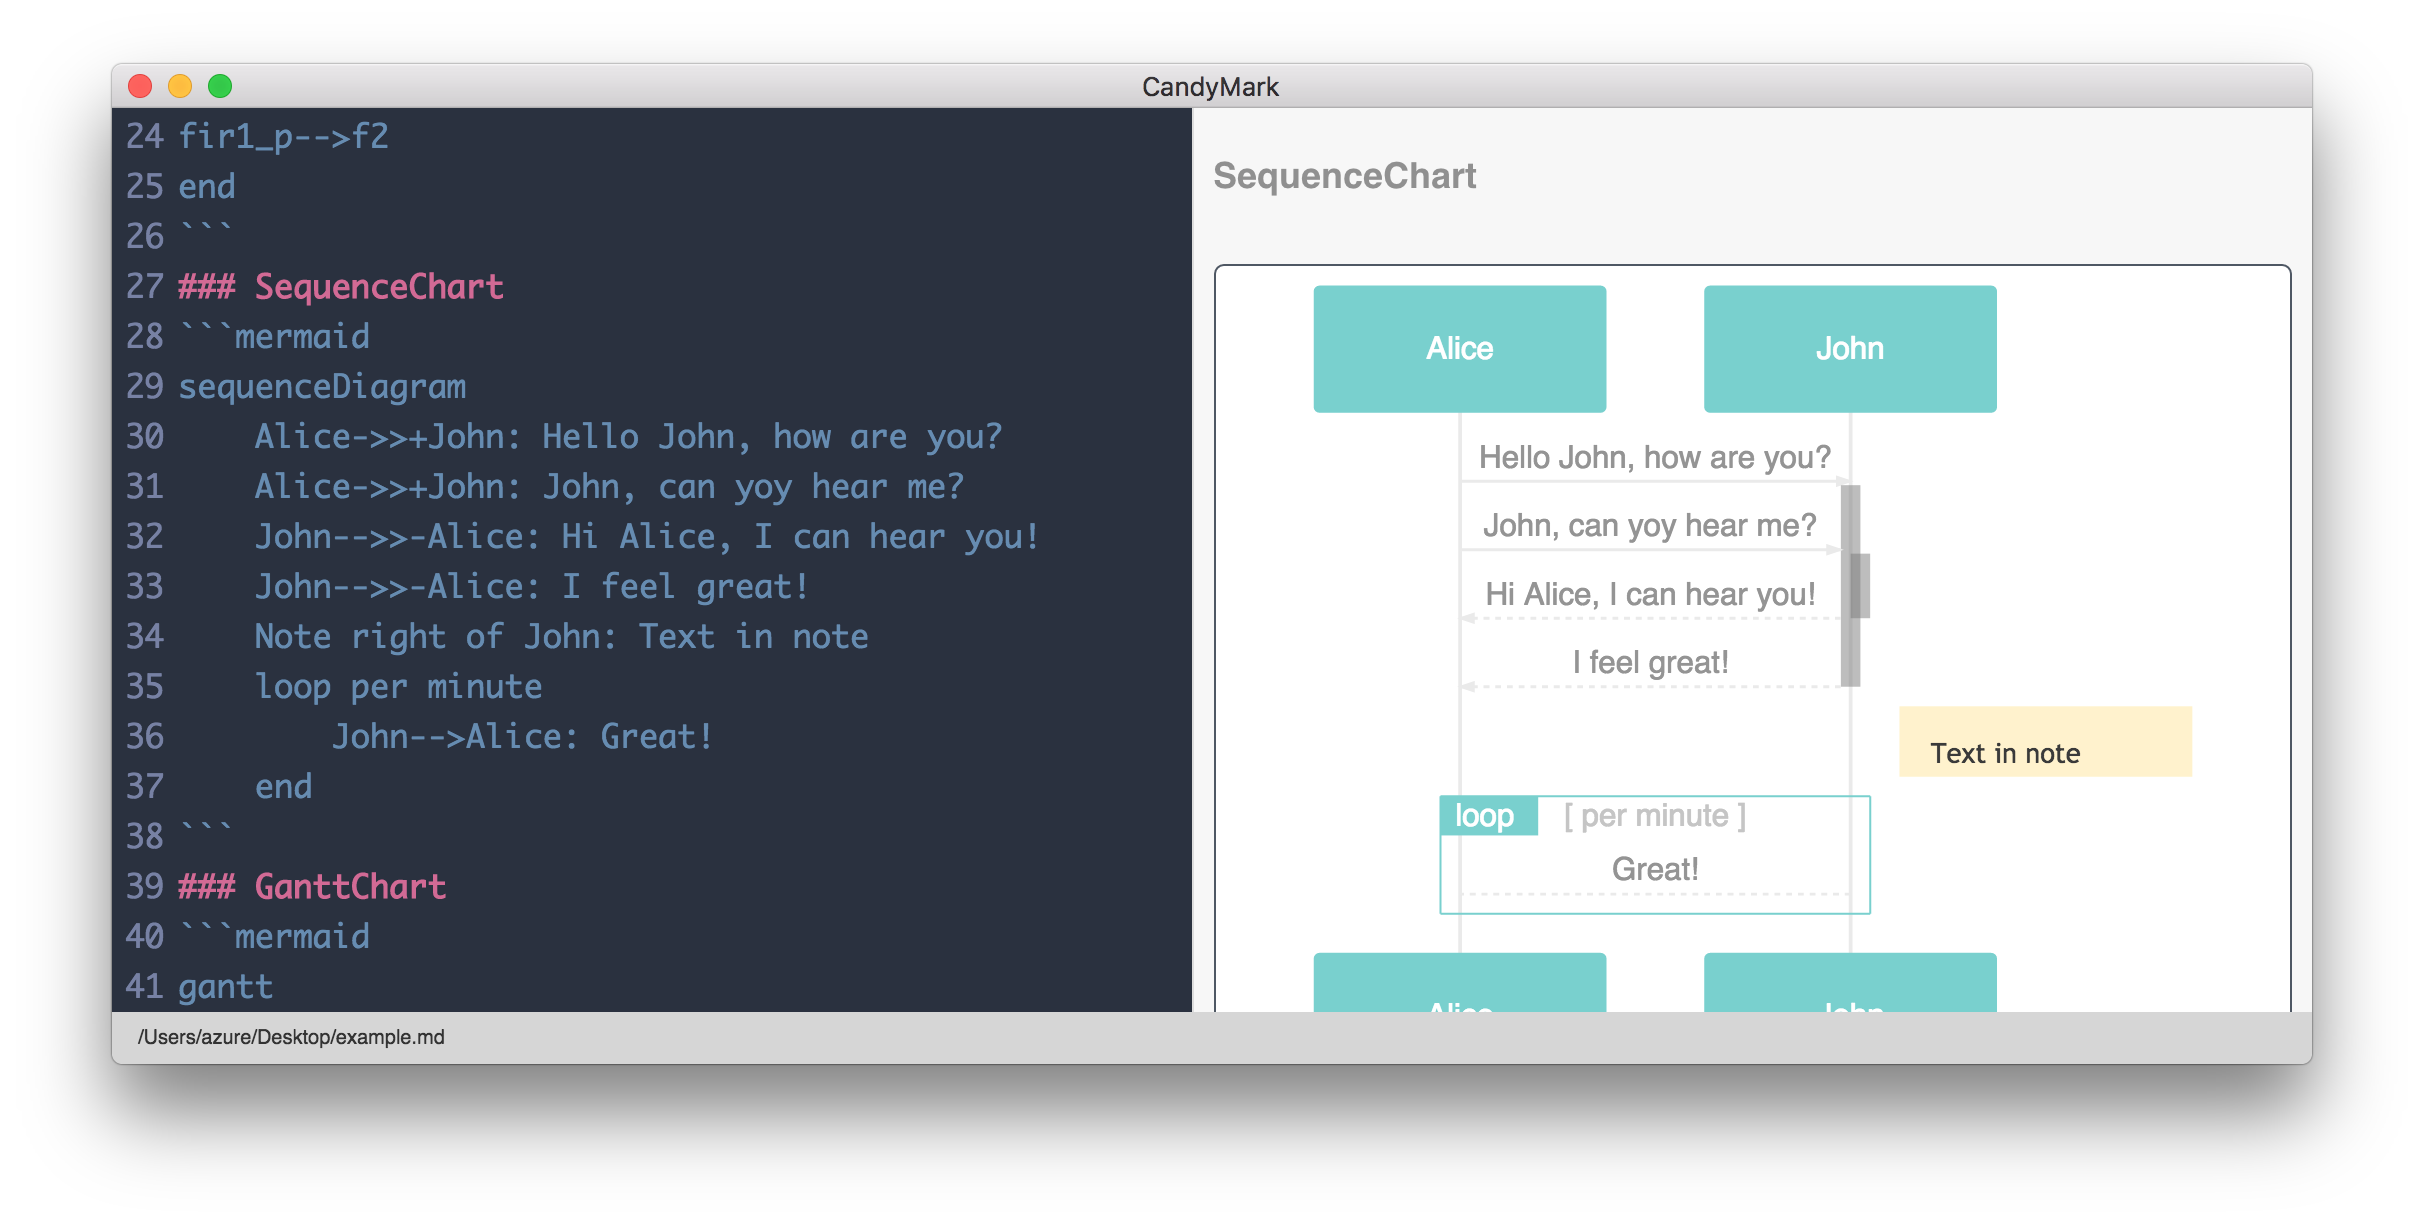
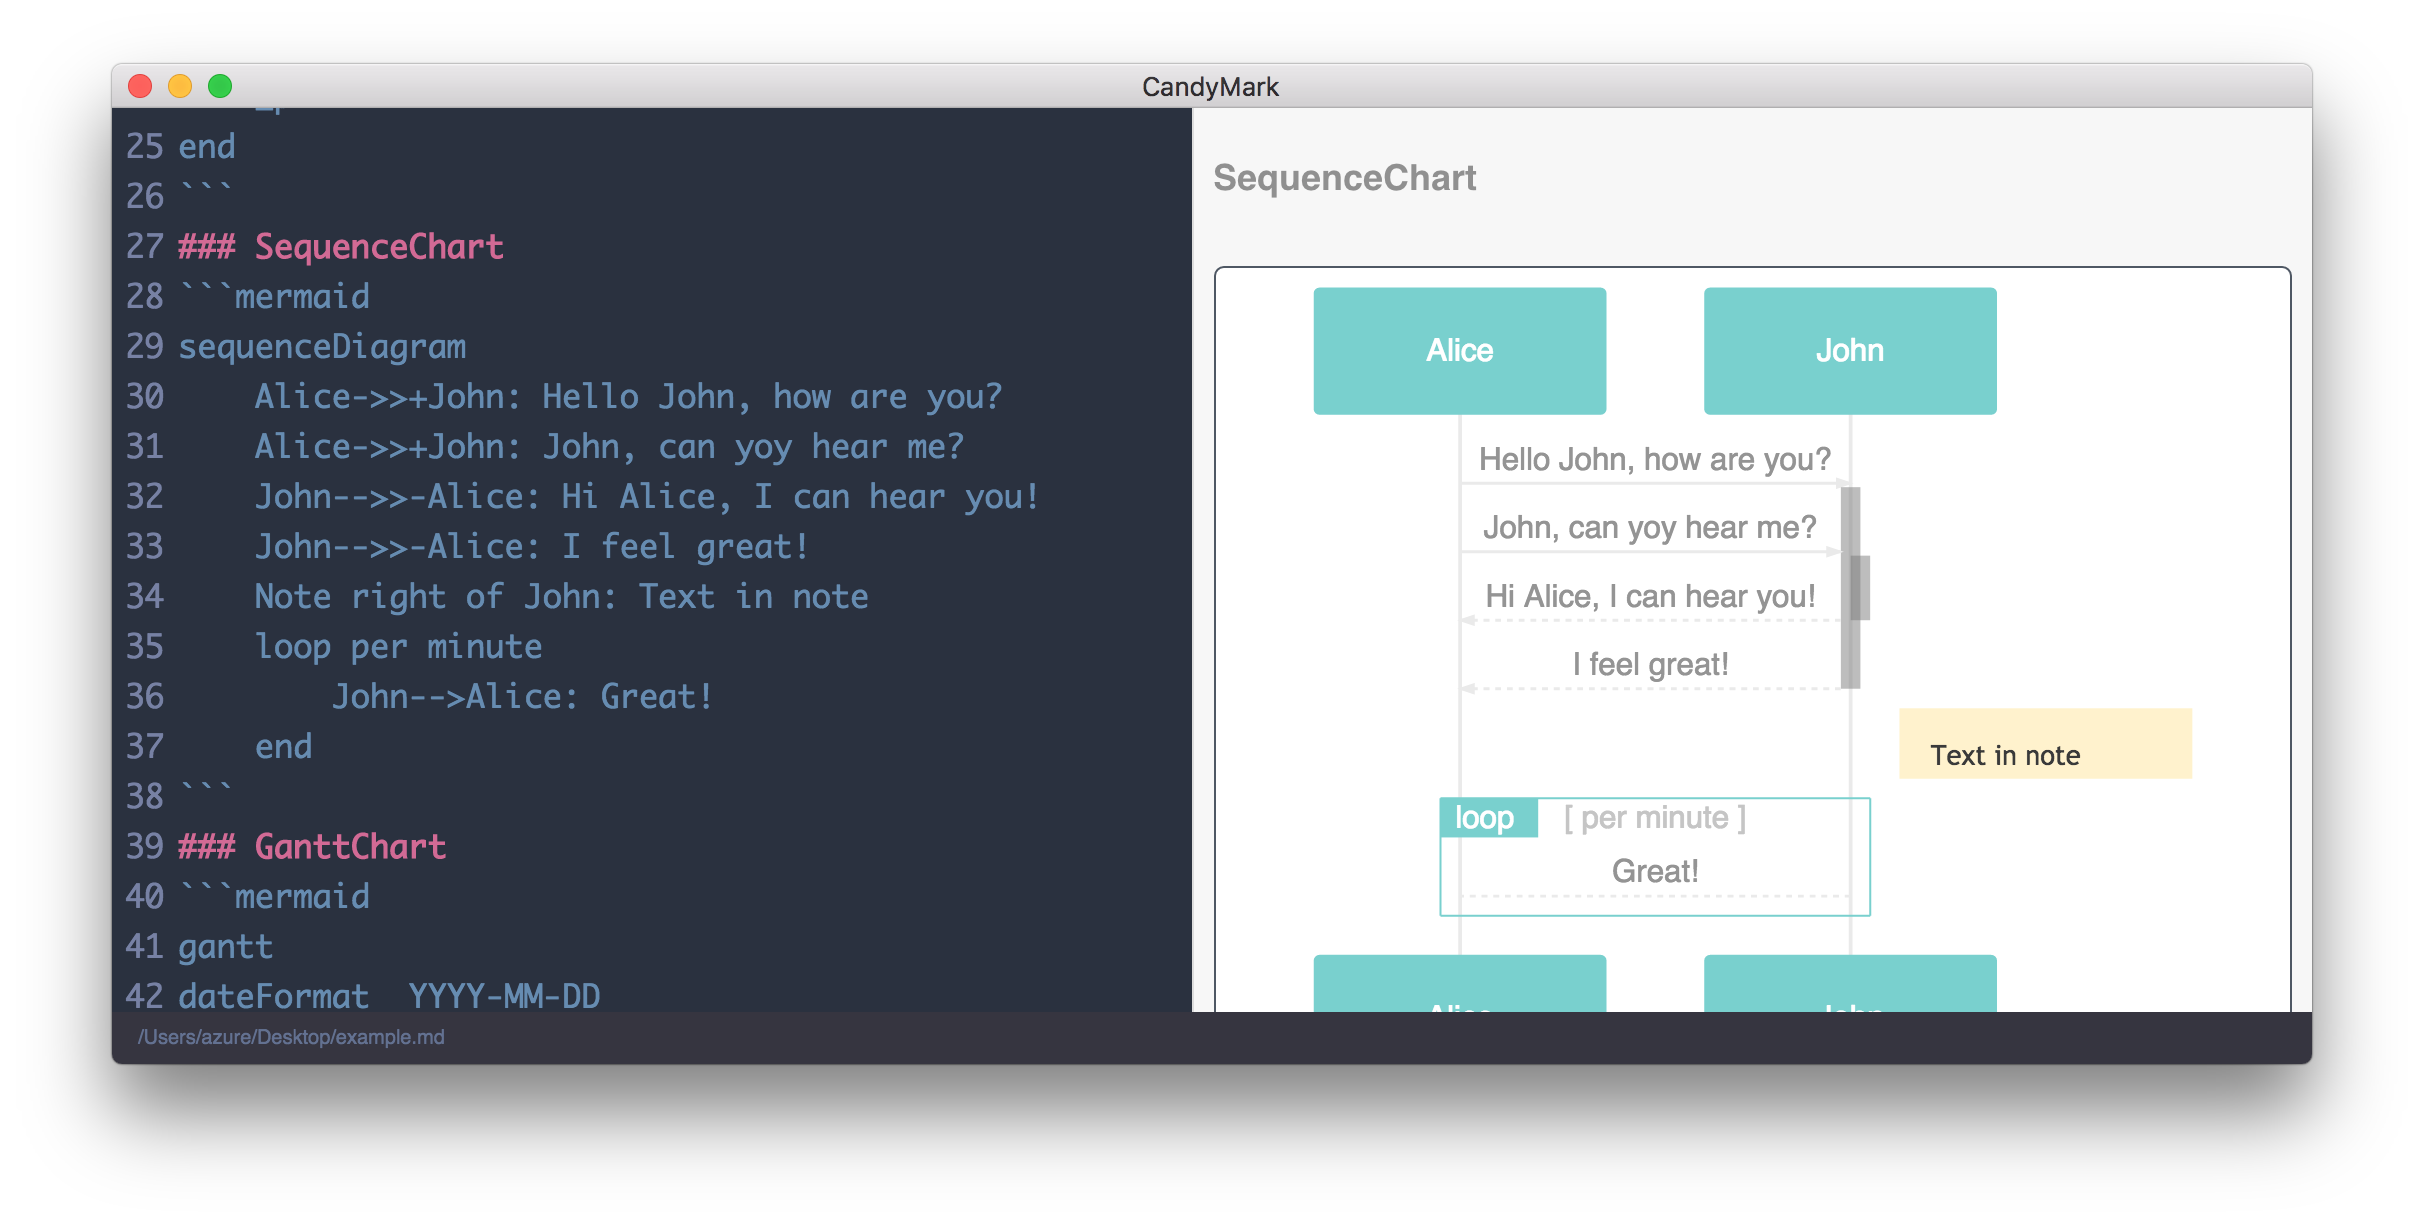
change screen

diff --git a/static/custom.css b/static/custom.css
@@ -35,8 +35,17 @@ div#path_area {
     float: left;
 	margin-left: 10px;
 	font-size: x-small;
+	color: #627092;
 }
 
 code {
     font-family: Monaco, 'Andale Mono', 'Lucida Console', 'Bitstream Vera Sans Mono', 'Courier New', Courier, monospace;
+}
+.toolbar-footer{
+	border-top: none;
+}
+.toolbar{
+	box-shadow:none;
+	background-image:none;
+	background: #363540;
 }

diff --git a/README.md b/README.md
@@ -22,6 +22,7 @@
 - Presentation support
 - export PDF
 - export HTML
+- FileBrowser
 
 ## License
 MIT. Copyright (c) Keito Ohsawa.
